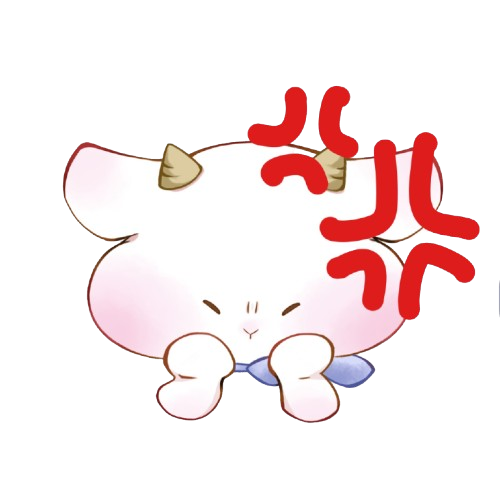
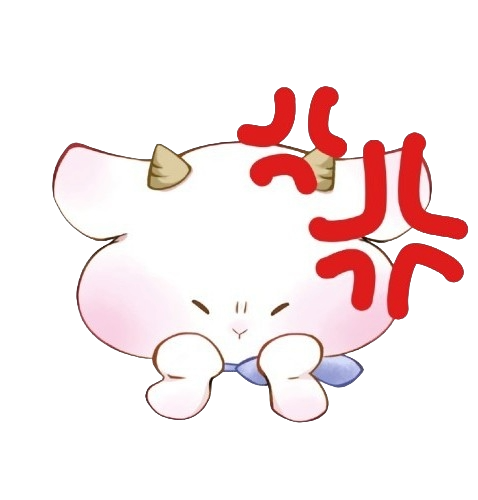
画像

diff --git a/css/home.css b/css/home.css
@@ -243,10 +243,10 @@ main {
 /* 表情のアイコン */
 .call-icon {
     position: absolute;
-    right: 45px;
-    top: 65px;
-    width: 60px;
-    height: 60px;
+    right: 25px;
+    top: 25px;
+    width: 70px;
+    height: 70px;
     object-fit: contain;
 }
 
@@ -255,7 +255,7 @@ main {
 
 .goat {
     position: absolute;
-    right: -50px;
+    right: -45px;
     bottom: -50px;
     width: 180px;
     height: 180px;

diff --git a/index.html b/index.html
@@ -72,7 +72,7 @@
                 <span>/</span>
                 <span>15分</span>
             </div>
-            <img class="goat" src="images/goat.png" alt="感情">
+            <img class="goat" src="images/angry.jpg" alt="感情">
         </div>
 
         <!-- レター3 -->
